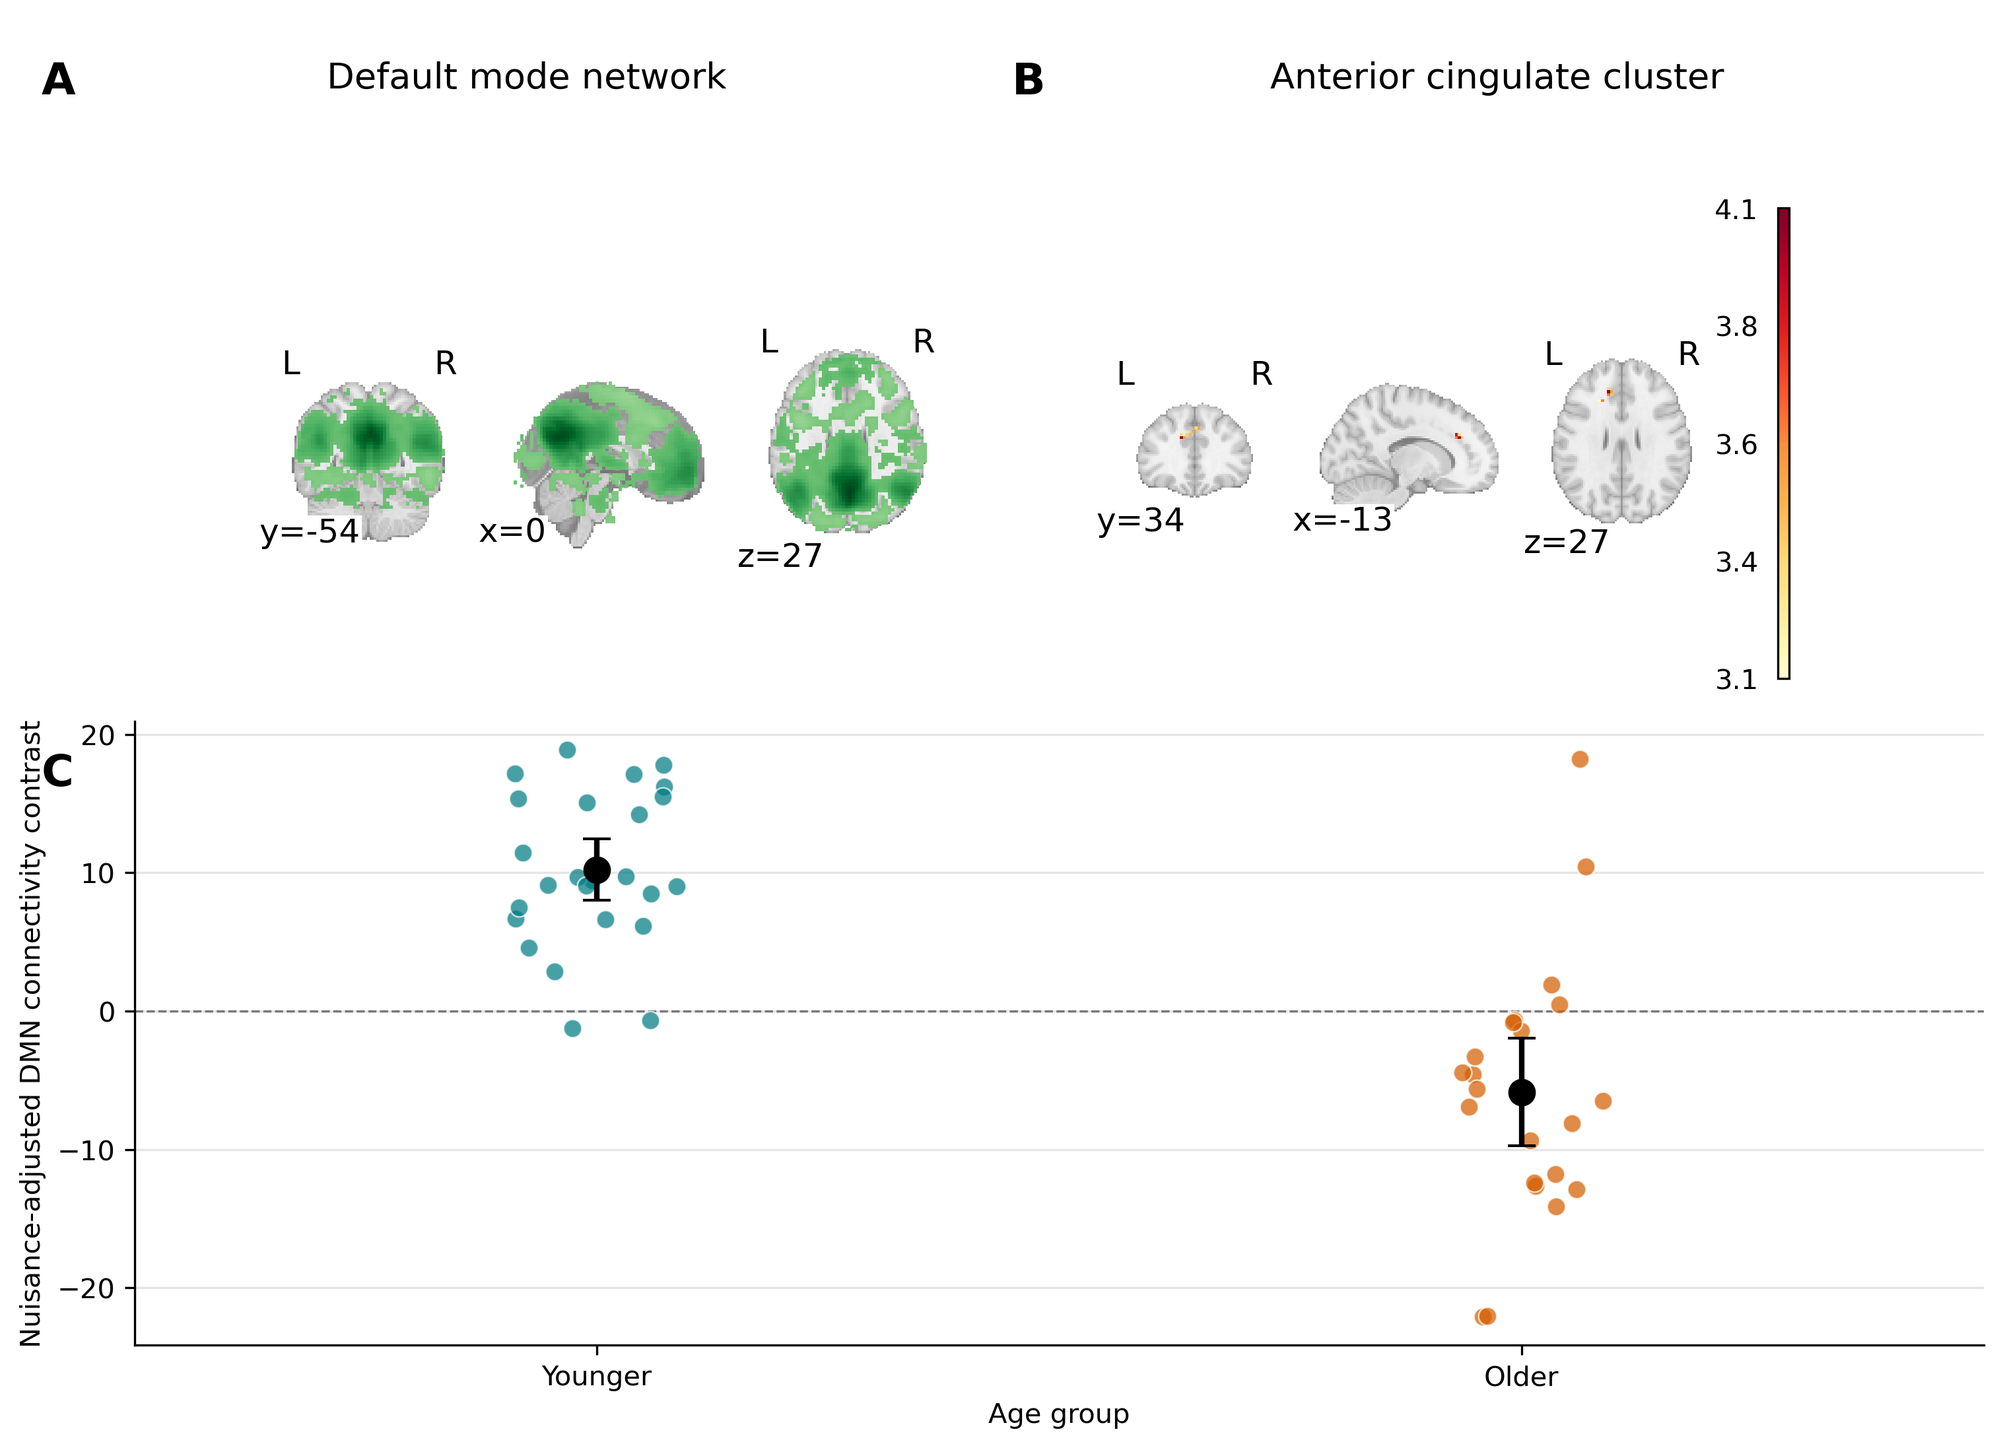
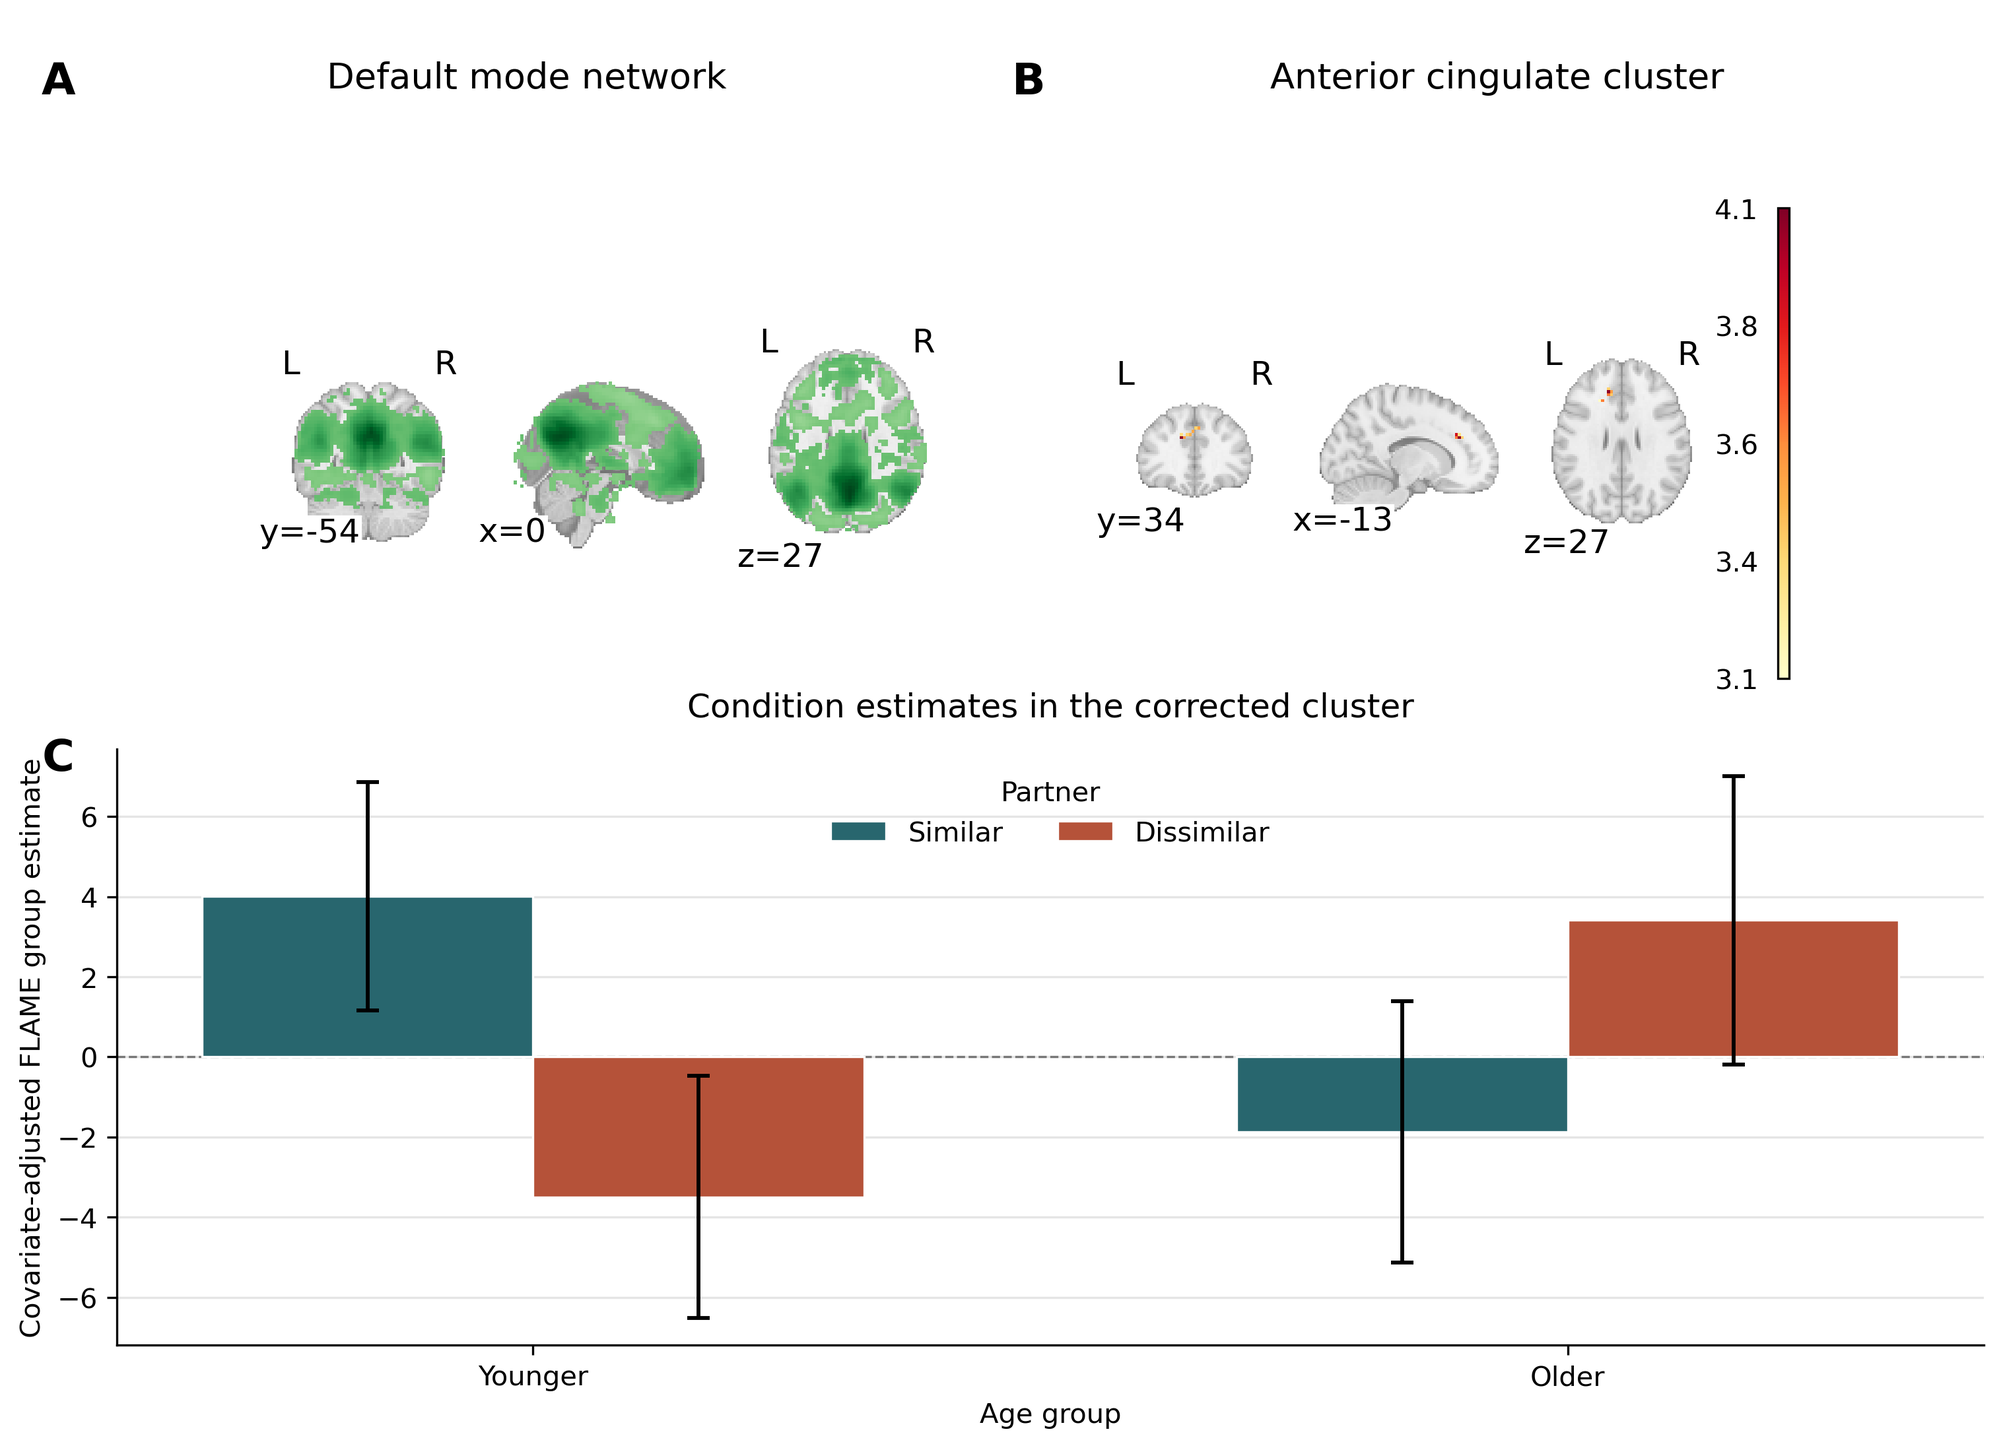
figures: show corrected DMN condition estimates

diff --git a/code/plot_manuscript_figures.py b/code/plot_manuscript_figures.py
@@ -4,7 +4,6 @@
 from __future__ import annotations
 
 import argparse
-import io
 import shutil
 from pathlib import Path
 
@@ -18,61 +17,37 @@ from nilearn import plotting
 REPO_ROOT = Path(__file__).resolve().parents[1]
 SOURCE_ROOT = Path("results/manuscript/source_data")
 FIGURE_ROOT = Path("results/manuscript/figures")
-COLORS = {"younger": "#007C83", "older": "#D55E00"}
-
-
-def mean_ci(values: np.ndarray) -> tuple[float, float, float]:
-    mean = float(np.mean(values))
-    standard_error = float(np.std(values, ddof=1) / np.sqrt(len(values)))
-    margin = 1.96 * standard_error
-    return mean, mean - margin, mean + margin
-
-
-def read_vest_matrix(path: Path) -> np.ndarray:
-    lines = path.read_text(encoding="utf-8").splitlines()
-    try:
-        matrix_start = lines.index("/Matrix") + 1
-    except ValueError as error:
-        raise ValueError(f"missing /Matrix section in {path}") from error
-    return np.loadtxt(io.StringIO("\n".join(lines[matrix_start:])))
+PARTNER_COLORS = {"similar": "#28666E", "dissimilar": "#B55239"}
 
 
 def build_figure3(repository: Path, source_root: Path, figure_root: Path) -> None:
-    table_path = source_root / "figure3_dmn_corrected_roi.tsv"
+    bar_path = source_root / "figure3_dmn_flame_bar_summary.tsv"
     zstat_path = source_root / "figure3_dmn_corrected_cluster_zstat.nii.gz"
     network_path = repository / "masks/nan_rPNAS_2mm_net0003.nii.gz"
-    design_path = repository / (
-        "results/reviewer/l3_repair_designs/dmn-age/"
-        "reported-covariates-corrected/design.mat"
-    )
-    for required in (table_path, zstat_path, network_path, design_path):
+    for required in (bar_path, zstat_path, network_path):
         if not required.is_file():
             raise FileNotFoundError(f"missing Figure 3 source: {required}")
 
-    data = pd.read_csv(table_path, sep="\t")
-    if len(data) != 47 or set(data["age_group"]) != {"younger", "older"}:
-        raise ValueError("Figure 3 source table must contain both groups and 47 rows")
-    design = read_vest_matrix(design_path)
-    if design.shape != (47, 6):
-        raise ValueError("corrected DMN design matrix must be 47 x 6")
-    younger_rows = data["age_group"].eq("younger").to_numpy()
-    older_rows = data["age_group"].eq("older").to_numpy()
-    if not (
-        np.array_equal(design[:, 0], younger_rows.astype(float))
-        and np.array_equal(design[:, 1], older_rows.astype(float))
-    ):
-        raise ValueError("Figure 3 source rows do not match the corrected design matrix")
-    raw_values = data["similar_minus_dissimilar"].to_numpy(dtype=float)
-    coefficients = np.linalg.lstsq(design, raw_values, rcond=None)[0]
-    data["nuisance_adjusted_for_display"] = (
-        raw_values - design[:, 2:] @ coefficients[2:]
-    )
-    data.to_csv(
-        source_root / "figure3_dmn_plot_data.tsv",
-        sep="\t",
-        index=False,
-        float_format="%.9g",
-    )
+    bars = pd.read_csv(bar_path, sep="\t")
+    expected_cells = {
+        ("younger", "similar"),
+        ("younger", "dissimilar"),
+        ("older", "similar"),
+        ("older", "dissimilar"),
+    }
+    observed_cells = set(zip(bars["age_group"], bars["condition"]))
+    if len(bars) != 4 or observed_cells != expected_cells:
+        raise ValueError("Figure 3 bar table must contain the four age-by-partner cells")
+    numeric_columns = [
+        "flame_cluster_mean_estimate",
+        "mean_voxelwise_standard_error",
+        "display_conf_low",
+        "display_conf_high",
+    ]
+    if not np.isfinite(bars[numeric_columns].to_numpy(dtype=float)).all():
+        raise ValueError("Figure 3 bar estimates and intervals must be finite")
+    if not (bars["mean_voxelwise_standard_error"] > 0).all():
+        raise ValueError("Figure 3 bar standard errors must be positive")
     zstat = nib.load(zstat_path)
     if int(np.count_nonzero(np.asanyarray(zstat.dataobj))) != 29:
         raise ValueError("Figure 3 corrected Z-stat image must contain 29 nonzero voxels")
@@ -108,42 +83,56 @@ def build_figure3(repository: Path, source_root: Path, figure_root: Path) -> Non
         axes=cluster_axis,
     )
 
-    random = np.random.default_rng(20260910)
-    group_positions = {"younger": 0.25, "older": 0.75}
-    for group in ("younger", "older"):
-        x_position = group_positions[group]
-        group_values = data.loc[
-            data["age_group"] == group, "nuisance_adjusted_for_display"
-        ].to_numpy(dtype=float)
-        jitter = random.uniform(-0.045, 0.045, len(group_values))
-        roi_axis.scatter(
-            np.full(len(group_values), x_position) + jitter,
-            group_values,
-            s=44,
-            alpha=0.72,
-            facecolor=COLORS[group],
+    age_groups = ("younger", "older")
+    conditions = ("similar", "dissimilar")
+    group_positions = np.arange(len(age_groups), dtype=float)
+    bar_width = 0.32
+    offsets = {"similar": -bar_width / 2, "dissimilar": bar_width / 2}
+    for condition in conditions:
+        condition_rows = (
+            bars.loc[bars["condition"] == condition]
+            .set_index("age_group")
+            .loc[list(age_groups)]
+        )
+        estimates = condition_rows["flame_cluster_mean_estimate"].to_numpy(
+            dtype=float
+        )
+        lower = condition_rows["display_conf_low"].to_numpy(dtype=float)
+        upper = condition_rows["display_conf_high"].to_numpy(dtype=float)
+        roi_axis.bar(
+            group_positions + offsets[condition],
+            estimates,
+            width=bar_width,
+            color=PARTNER_COLORS[condition],
             edgecolor="white",
-            linewidth=0.6,
+            linewidth=0.8,
+            label=condition.capitalize(),
             zorder=2,
         )
-        mean, lower, upper = mean_ci(group_values)
         roi_axis.errorbar(
-            x_position,
-            mean,
-            yerr=[[mean - lower], [upper - mean]],
-            fmt="o",
-            markersize=9,
-            color="black",
-            capsize=5,
-            linewidth=2,
+            group_positions + offsets[condition],
+            estimates,
+            yerr=np.vstack((estimates - lower, upper - estimates)),
+            fmt="none",
+            ecolor="black",
+            elinewidth=1.4,
+            capsize=4,
+            capthick=1.4,
             zorder=3,
         )
 
     roi_axis.axhline(0, color="#777777", linewidth=0.8, linestyle="--", zorder=1)
-    roi_axis.set_xlim(0, 1)
-    roi_axis.set_xticks([0.25, 0.75], ["Younger", "Older"])
-    roi_axis.set_ylabel("Nuisance-adjusted DMN connectivity contrast")
+    roi_axis.set_xticks(group_positions, ["Younger", "Older"])
+    roi_axis.set_ylabel("Covariate-adjusted FLAME group estimate")
     roi_axis.set_xlabel("Age group")
+    roi_axis.set_title("Condition estimates in the corrected cluster", pad=12)
+    roi_axis.legend(
+        title="Partner",
+        frameon=False,
+        ncols=2,
+        loc="upper center",
+        bbox_to_anchor=(0.5, 0.99),
+    )
     roi_axis.spines[["top", "right"]].set_visible(False)
     roi_axis.grid(axis="y", color="#E5E5E5", linewidth=0.8)
     roi_axis.set_axisbelow(True)
@@ -152,7 +141,15 @@ def build_figure3(repository: Path, source_root: Path, figure_root: Path) -> Non
     figure.text(0.26, 0.965, "Default mode network", fontsize=13, ha="center", va="top")
     figure.text(0.505, 0.965, "B", fontsize=16, fontweight="bold", va="top")
     figure.text(0.75, 0.965, "Anterior cingulate cluster", fontsize=13, ha="center", va="top")
-    figure.text(0.015, 0.48, "C", fontsize=16, fontweight="bold", va="top")
+    roi_axis.text(
+        -0.04,
+        1.02,
+        "C",
+        transform=roi_axis.transAxes,
+        fontsize=16,
+        fontweight="bold",
+        va="top",
+    )
     output = figure_root / "figure3_corrected_dmn.png"
     figure.savefig(output, dpi=300, bbox_inches="tight", facecolor="white")
     plt.close(figure)

diff --git a/tests/test_manuscript_figure_contract.py b/tests/test_manuscript_figure_contract.py
@@ -60,24 +60,64 @@ class ManuscriptFigureContractTests(unittest.TestCase):
         self.assertIn("Remove", rows["ecn_fairness_sensitivity"]["revision_disposition"])
         self.assertIn("do not add", rows["activation_norm_proxy"]["revision_disposition"])
 
-    def test_corrected_dmn_plot_data_has_expected_direction(self):
-        path = ROOT / "results/manuscript/source_data/figure3_dmn_plot_data.tsv"
+    def test_corrected_dmn_bar_data_has_complete_age_by_partner_cells(self):
+        path = ROOT / "results/manuscript/source_data/figure3_dmn_flame_bar_summary.tsv"
         with path.open(encoding="utf-8", newline="") as stream:
             rows = list(csv.DictReader(stream, delimiter="\t"))
-        self.assertEqual(len(rows), 47)
-        by_group = {
-            group: [
-                float(row["nuisance_adjusted_for_display"])
-                for row in rows
-                if row["age_group"] == group
-            ]
-            for group in ("younger", "older")
+        self.assertEqual(len(rows), 4)
+        self.assertEqual(
+            {(row["age_group"], row["condition"]) for row in rows},
+            {
+                ("younger", "similar"),
+                ("younger", "dissimilar"),
+                ("older", "similar"),
+                ("older", "dissimilar"),
+            },
+        )
+        for row in rows:
+            estimate = float(row["flame_cluster_mean_estimate"])
+            standard_error = float(row["mean_voxelwise_standard_error"])
+            self.assertGreater(standard_error, 0)
+            self.assertLess(float(row["display_conf_low"]), estimate)
+            self.assertGreater(float(row["display_conf_high"]), estimate)
+
+    def test_corrected_dmn_condition_inputs_have_positive_varcopes(self):
+        path = ROOT / "results/manuscript/source_data/figure3_dmn_condition_input_roi.tsv"
+        with path.open(encoding="utf-8", newline="") as stream:
+            rows = list(csv.DictReader(stream, delimiter="\t"))
+        self.assertEqual(len(rows), 94)
+        for condition in ("similar", "dissimilar"):
+            condition_rows = [row for row in rows if row["condition"] == condition]
+            self.assertEqual(len(condition_rows), 47)
+            self.assertEqual(len({row["participant"] for row in condition_rows}), 47)
+            self.assertEqual(
+                sorted(int(row["design_index"]) for row in condition_rows),
+                list(range(1, 48)),
+            )
+        self.assertTrue(
+            all(float(row["cluster_mean_varcope"]) > 0 for row in rows)
+        )
+        self.assertTrue(
+            all(float(row["inverse_varcope_weight"]) > 0 for row in rows)
+        )
+
+    def test_corrected_dmn_bar_pattern_matches_retained_interaction(self):
+        path = ROOT / "results/manuscript/source_data/figure3_dmn_flame_bar_summary.tsv"
+        with path.open(encoding="utf-8", newline="") as stream:
+            rows = list(csv.DictReader(stream, delimiter="\t"))
+        estimates = {
+            (row["age_group"], row["condition"]): float(
+                row["flame_cluster_mean_estimate"]
+            )
+            for row in rows
         }
-        self.assertEqual(len(by_group["younger"]), 25)
-        self.assertEqual(len(by_group["older"]), 22)
-        younger_mean = sum(by_group["younger"]) / len(by_group["younger"])
-        older_mean = sum(by_group["older"]) / len(by_group["older"])
-        self.assertGreater(younger_mean, older_mean)
+        younger_difference = estimates[("younger", "similar")] - estimates[
+            ("younger", "dissimilar")
+        ]
+        older_difference = estimates[("older", "similar")] - estimates[
+            ("older", "dissimilar")
+        ]
+        self.assertGreater(younger_difference, older_difference)
 
 
 if __name__ == "__main__":

diff --git a/results/manuscript/README.md b/results/manuscript/README.md
@@ -12,8 +12,9 @@ the group model uses them.
    the manuscript working repository.
 2. `figure2_corrected_acceptance.png` is generated from the converged,
    event-corrected behavioral model and its tracked source tables.
-3. `figure3_corrected_dmn.png` shows the corrected DMN result and descriptive
-   participant values extracted from its significant cluster.
+3. `figure3_corrected_dmn.png` shows the corrected DMN result and the four
+   descriptive age-group-by-partner FLAME estimates from its significant
+   cluster.
 
 The submitted ECN figure is deliberately absent. Its focal cluster does not
 survive the fully corrected model. The image-only rerun is retained solely as
@@ -49,21 +50,18 @@ python3 -m pip install -r requirements-figures.txt
 python3 code/plot_manuscript_figures.py
 ```
 
-Participant values in Figure 3 are descriptive because the displayed cluster
-was selected by the group analysis. Inferential reporting must use the
-whole-brain FLAME 1+2 result, not a test on the extracted values. The plotting
-script writes `source_data/figure3_dmn_plot_data.tsv`, retaining both the raw
-cope 7 extraction and an ordinary-least-squares nuisance-adjusted display
-value derived from the exact corrected six-column design matrix.
+The bars in Figure 3 are descriptive because the displayed cluster was
+selected by the group analysis. Inferential reporting must use the whole-brain
+similar-minus-dissimilar FLAME 1+2 result, not a test on the displayed bars.
 
 ### Four-bar FLAME decomposition
 
-The participant scatter is provisional. The intended final panel contains
-four bars (younger/older by similar/dissimilar) from two condition-specific
-FLAME 1+2 models. These models reuse the exact corrected six-column group
-design and substitute L2 cope 4 or cope 6 for the cope 7 inputs. They retain
-the repaired sub-144 images. The legacy 94-row stacked-condition template is
-not used because it does not model the two observations per participant.
+The final panel contains four bars (younger/older by similar/dissimilar) from
+two condition-specific FLAME 1+2 models. These models reuse the exact corrected
+six-column group design and substitute L2 cope 4 or cope 6 for the cope 7
+inputs. They retain the repaired sub-144 images. The legacy 94-row
+stacked-condition template is not used because it does not model the two
+observations per participant.
 
 Prepare and run the two small Linux models with:
 

diff --git a/results/manuscript/figure_captions.md b/results/manuscript/figure_captions.md
@@ -29,14 +29,15 @@ cluster-corrected p = .0138, Zmax = 4.07, peak MNI [-13.3, 34.0,
 27.8]. The whole-brain analysis used FLAME 1+2 with Z > 3.1 and
 cluster-corrected p < .05 and included sex, tSNR, mean framewise displacement,
 and event-corrected task-wide mean response time as covariates (N = 47).
-(C) Participant-level values extracted from the significant cluster are shown
-after residualizing the sex, tSNR, mean-framewise-displacement, and response-
-time columns of the corrected group design; black points and error bars denote
-age-group means and 95% confidence intervals. This ordinary-least-squares
-adjustment is used only to visualize the direction of the covariate-adjusted
-contrast. Because the cluster was selected by the group contrast, these values
-are descriptive and are not a separate inferential test; inference comes from
-the voxelwise FLAME 1+2 model.
+(C) Bars show cluster-mean group COPE estimates from separate corrected
+condition-specific FLAME 1+2 models for age-similar and age-dissimilar
+partners. These covariate-adjusted estimates incorporate the input VARCOPEs
+and FLAME's estimate of between-participant variance. Error bars show 1.96
+times the cluster mean of the voxelwise FLAME standard errors. The bars and
+error bars are descriptive decompositions of the retained contrast, not
+independent region-of-interest tests. Because the cluster was selected by the
+group contrast, inference comes from the whole-brain similar-minus-dissimilar
+FLAME 1+2 model reported in panel B.
 
 ## Removed submitted figure
 

diff --git a/README.md b/README.md
@@ -71,6 +71,13 @@ explicit. See `docs/REPOSITORY_OF_RECORD.md`.
 The analyses were not preregistered. Reviewer-requested work is labeled as
 revision analysis and is not presented as part of the submitted workflow.
 
+The revised Figure 3 decomposes the retained default-mode-network contrast
+into four age-group-by-partner bars. Bar heights are cluster-mean group COPE
+estimates from corrected condition-specific FLAME 1+2 models, so the display
+retains FLAME's within- and between-participant variance modeling. The
+participant-level condition COPE and VARCOPE extracts and all image hashes are
+tracked under `results/manuscript/source_data/` for auditability.
+
 ## Acknowledgments
 
 This work was supported in part by NIH awards R21-MH113917 and R03-DA046733 to
